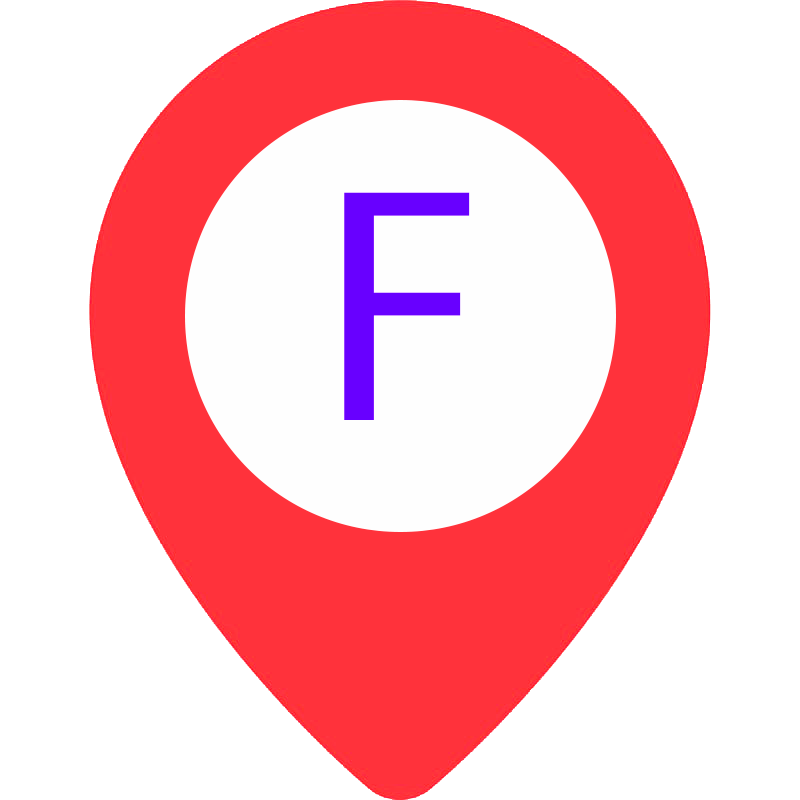
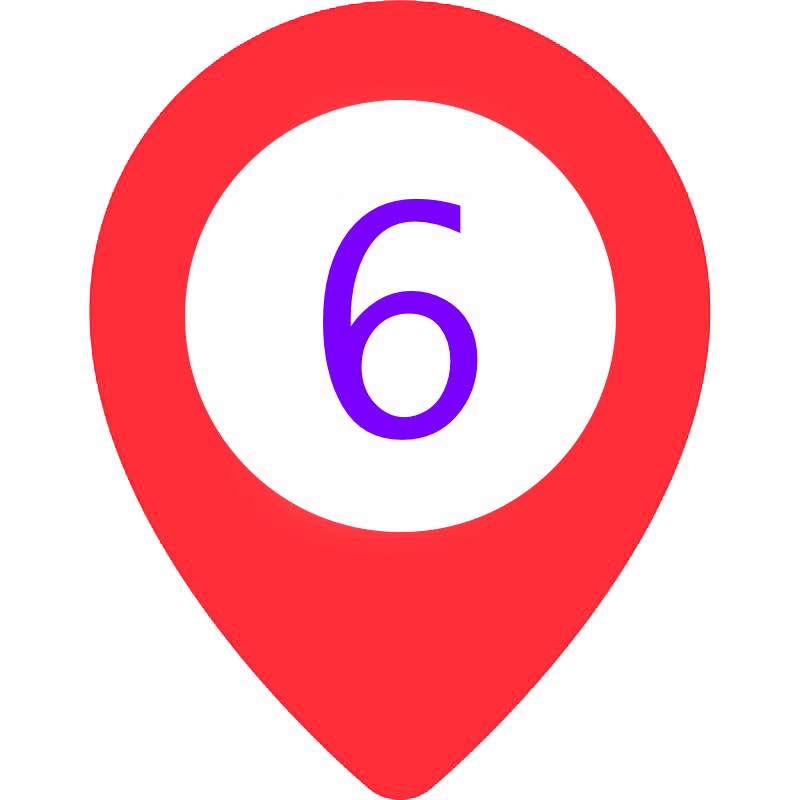
small fixes

Changed region(s): [[0.4062, 0.2188, 0.625, 0.5625]]

diff --git a/js/main.js b/js/main.js
@@ -9,7 +9,8 @@ var travel_type         = document.getElementById("travel_type"),
     weatherPlacemarks   = [],
     windDirections      = [],
     waypointMarks       = [],
-    currentDate         = new Date();
+    currentDate         = new Date(),
+    placemarkH          = undefined;
 
 ymaps.ready(init);
  
@@ -30,6 +31,7 @@ function init() {
     map.events.add('click', function (e) {
         if (!map.balloon.isOpen()) {
             coords = e.get('coords');
+            console.log(coords);
 
             var minSpeed = 1,
                 maxSpeed = 1000,
@@ -82,13 +84,11 @@ function init() {
                         if(waypointMarks.length > 1)
                             waypointMarks[waypointMarks.length-1].options.set(
                                 "iconImageHref", "img/waypoint" + (waypointMarks.length-1).toString() + ".png");
-                        placemark.options.set("iconImageHref", "img/waypoint6.png");
+                        placemark.options.set("iconImageHref", "img/waypoint10.png");
                     }
                 
                     placemark.options.set("speed", input__speed.value);
-                    console.log("added speed");
-                    console.log(placemark.options.get("speed"));
-                    if(waypointMarks.length <= 6)
+                    if(waypointMarks.length <= 10)
                     {
                         map.geoObjects.add(placemark);
                         waypointMarks.push(placemark);
@@ -107,9 +107,22 @@ function init() {
             map.balloon.close();
         }
     });
+
+    document.getElementById("header__logo").addEventListener("click", function(e) {
+        if(placemarkH == undefined){
+            placemarkH = createPlacemark([30.037800439414188, 31.25028483728282], {image:"img/hint.png"});
+            map.geoObjects.add(placemarkH);
+        }
+        else{
+            alert("removed");
+            map.geoObjects.remove(placemarkH);
+            placemarkH = undefined;
+        }
+    });
 }
 
 clearRouteButton.addEventListener('click', clearRoute);
+
     
 /*Обработчик события для кнопки "проложить маршрут"*/
 submit.addEventListener('click', function(e) {
@@ -161,6 +174,7 @@ submit.addEventListener('click', function(e) {
         {
             var lastPoint = waypointMarks[0].geometry.getCoordinates();
             var minDistance = getMinDistanceBetweenPoints(routeDistance);
+            console.log(minDistance);
             var counter = 1;
             for (var i = 0; i < myRoute.getPaths().getLength(); i++) {
                 var way = myRoute.getPaths().get(i);
@@ -188,13 +202,11 @@ submit.addEventListener('click', function(e) {
         {
             if(i != 0)
             {
-                console.log(waypointMarks[i].options.get("speed"));
                 var distanceBetweenPoints = ymaps.coordSystem.geo.getDistance(
                     waypointMarks[i-1].geometry.getCoordinates(), 
                     waypointMarks[i].geometry.getCoordinates());
                     dateAtWaypoint.setSeconds(dateAtWaypoint.getSeconds()
                      + distanceBetweenPoints / (waypointMarks[i-1].options.get("speed") / 3.6));
-                console.log(dateAtWaypoint);
             }
             weatherPlacemark = createPlacemark(waypointMarks[i].geometry.getCoordinates(), {image: "img/loading.gif", iconImageOffset: [8,-24]});
             weatherPlacemarks.push(weatherPlacemark);
@@ -292,14 +304,7 @@ function getCoordinatesFromPlacemarks(placemarks)
 
 function getMinDistanceBetweenPoints(distance)
 {
-    if(distance < 2000)
-        return distance * 2; 
-    else if(distance < 4000)
-        return distance / 2;
-    else if(distance < 8000)
-        return distance / 3;
-    else
-        return distance / 4;
+    return distance / Math.min(10, Math.floor( Math.log(distance/1000) / Math.log(1.7)) );
 }
 
 function clearRoute(e) {

diff --git a/index.html b/index.html
@@ -14,7 +14,7 @@
 </head>
 <body>
     <header>
-        <img class="header__logo" src="img/logo.png">
+        <img id="header__logo" src="img/logo.png">
         <p class="logo_name">WEATHERLY</p>
         <div class="spacer"></div>
         <p class="header__route">Выберите тип перемещения</p>

diff --git a/css/style.css b/css/style.css
@@ -38,7 +38,7 @@ header {
     color: white
 }
 
-.header__logo {
+#header__logo {
     height: 5vh;
     width: 5vh;
     object-fit: cover;
